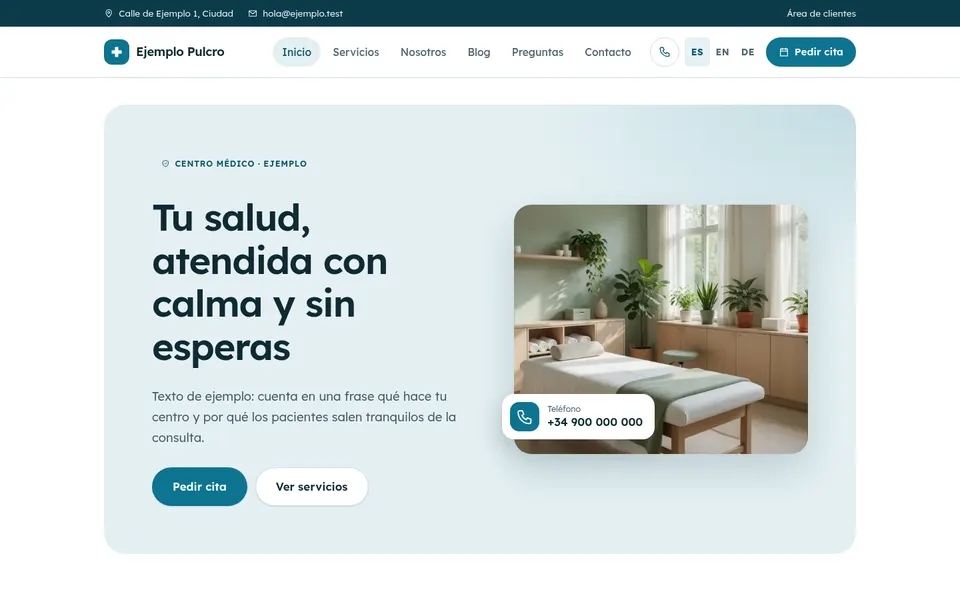
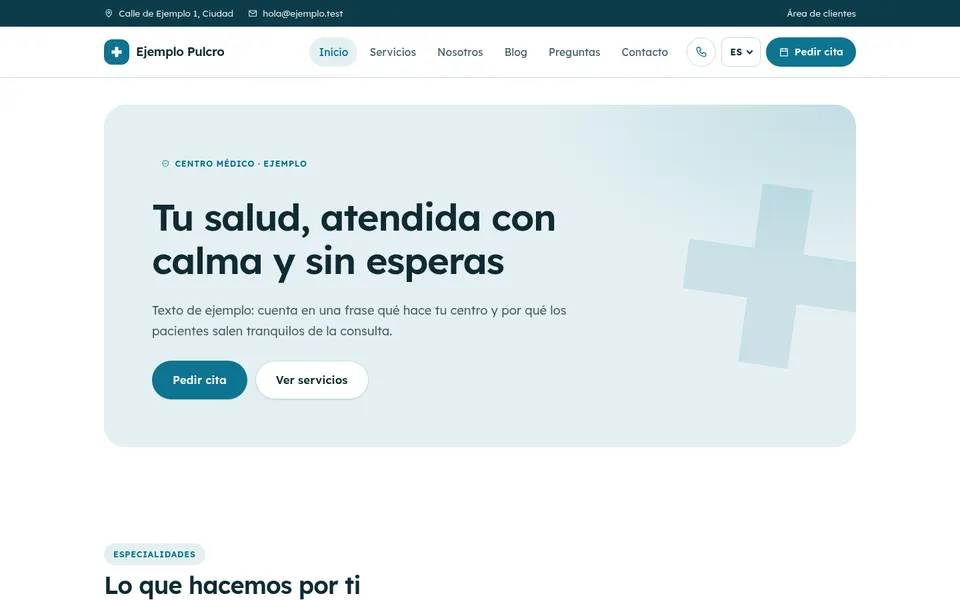
Temas nuevos: selector de idioma, acento claro y capturas de galería
- Con 4 idiomas o más el selector es un desplegable compacto (details, sin
  dependencias): con los 7 idiomas y el menú alemán, la marca y el menú ya no
  se pisan en 360, 390, 820, 1024, 1280 y 1440 px. Se cierra al pulsar fuera
  o con Escape (el foco vuelve a su botón).
- Acento como texto con contraste AA aunque el cliente elija un color muy
  claro (amarillo) o muy oscuro: luminosidad limitada en claro y en oscuro.
  Medido con #f5b400 y #1e3a8a en botones, enlaces, antetítulos, menú, cifras
  y pie.
- Rotundo: cabecera móvil con el desplegable en la misma fila. Orbital: ya no
  esconde el nombre de la marca con muchos idiomas. Todos: el botón de menú no
  se encoge.
- Capturas de galería del panel con la portada sin foto (la que ve quien aún
  no tiene imágenes), sin fotos de otros temas.

Changed region(s): [[0.0938, 0.3, 0.9062, 1.0], [0.2812, 0.06, 0.7812, 0.12], [0.875, 0.42, 0.9062, 0.51]]

diff --git a/themes/rotundo/assets/style.css b/themes/rotundo/assets/style.css
@@ -112,6 +112,10 @@ h3 { font-size: 1.35rem; font-weight: 700; letter-spacing: -.02em; line-height: 
   .header-cta span { position: absolute; width: 1px; height: 1px; overflow: hidden; clip: rect(0 0 0 0); white-space: nowrap; }
   .nav-toggle { order: 3; }
   .header-actions .lang-switch { order: 4; flex: 0 0 100%; justify-content: flex-start; padding-top: 6px; }
+  .header-actions .lang-switch.lang-many { order: 2; flex: none; padding-top: 0; margin-left: auto; }
+  .header-inner:has(.lang-many) .header-cta { margin-left: 0; }
+  .header-inner:has(.lang-many) .brand { flex: 1 1 0; min-width: 0; gap: 8px; }
+  .header-inner:has(.lang-many) .brand > span:last-child { white-space: normal; }
   .site-nav { background: var(--bg); border-bottom: 3px solid var(--line); box-shadow: 0 6px 0 var(--sh); padding: 12px 16px 18px; }
   .site-nav ul { gap: 6px; }
   .site-nav a { padding: 10px 14px; font-size: 1.1rem; border-color: var(--line); background: var(--card); }
@@ -301,3 +305,20 @@ a.media-card:hover, .post-card:hover { transform: translate(-2px, -2px); box-sha
   .faq details, .faq details:hover, .site-nav a, .nav-toggle:active, .whatsapp-float, .whatsapp-float:hover { transform: none; transition: none; }
 }
 @media print { .ribbon-wrap, .hero-art, .whatsapp-float, .utilbar { display: none !important; } .hero-rotundo { background: none; } .card, .feature, .stat, .step, .testimonial, .hours-card, .price-item { box-shadow: none; } .site-footer { background: none; color: #000; } }
+
+/* Selector con 4 idiomas o más: desplegable compacto (no pisa la marca ni el menú en ningún ancho) */
+.lang-menu { position: relative; }
+.lang-menu summary { list-style: none; display: inline-flex; align-items: center; justify-content: center; gap: 7px; min-height: 44px; min-width: 44px; padding: 4px 12px; cursor: pointer; font-size: .85rem; font-weight: 700; letter-spacing: .05em; color: var(--text); border: 1px solid var(--border); border-radius: 10px; background: transparent; }
+.lang-menu summary::-webkit-details-marker { display: none; }
+.lang-menu summary:hover { background: var(--bg-soft); }
+.lang-caret { width: 7px; height: 7px; border-right: 2px solid currentColor; border-bottom: 2px solid currentColor; transform: translateY(-2px) rotate(45deg); }
+.lang-menu[open] .lang-caret { transform: translateY(2px) rotate(-135deg); }
+.lang-list { position: absolute; right: 0; top: calc(100% + 6px); z-index: 70; display: grid; grid-template-columns: repeat(2, minmax(52px, 1fr)); gap: 2px; padding: 6px; background: var(--card, var(--bg)); border: 1px solid var(--border); border-radius: 10px; box-shadow: 0 14px 34px rgba(0,0,0,.18); }
+.lang-list a { justify-content: center; }
+.nav-toggle, .lang-menu summary { flex: none; }
+
+/* Acento como texto con contraste AA aunque el cliente elija un color muy claro (amarillo) o muy oscuro en modo oscuro */
+@supports (color: oklch(from red l c h)) {
+  :root { --accent-text: oklch(from var(--accent) min(l, .5) c h); }
+  @media (prefers-color-scheme: dark) { :root { --accent-text: oklch(from var(--accent) max(l, .8) c h); } }
+}

diff --git a/themes/orbital/assets/style.css b/themes/orbital/assets/style.css
@@ -105,7 +105,6 @@ code, kbd, samp { font-family: var(--mono); }
 }
 @media (max-width: 560px) {
   .brand-name { font-size: .95rem; line-height: 1.2; }
-  .header-inner:has(.lang-switch a:nth-child(5)) .brand-name { position: absolute; width: 1px; height: 1px; overflow: hidden; clip: rect(0 0 0 0); white-space: nowrap; }
 }
 @media (max-width: 440px) { .lang-switch a { min-width: 28px; padding: 4px 1px; font-size: .68rem; } .site-header { padding: 0 8px; } .header-inner { padding-left: 12px; } }
 @media (max-width: 400px) { .lang-switch a { min-width: 26px; } .header-actions { gap: 4px; } }
@@ -261,3 +260,20 @@ a.feature:hover { transform: none; border-color: var(--border); }
 /* Campos del formulario: borde con contraste 3:1 frente al fondo (WCAG 1.4.11), en claro y oscuro */
 .form input, .form textarea, .form select { border-color: color-mix(in srgb, var(--muted) 82%, var(--card)); }
 .form input:focus, .form textarea:focus, .form select:focus { border-color: var(--accent-text); }
+
+/* Selector con 4 idiomas o más: desplegable compacto (no pisa la marca ni el menú en ningún ancho) */
+.lang-menu { position: relative; }
+.lang-menu summary { list-style: none; display: inline-flex; align-items: center; justify-content: center; gap: 7px; min-height: 44px; min-width: 44px; padding: 4px 12px; cursor: pointer; font-size: .85rem; font-weight: 700; letter-spacing: .05em; color: var(--text); border: 1px solid var(--border); border-radius: 10px; background: transparent; }
+.lang-menu summary::-webkit-details-marker { display: none; }
+.lang-menu summary:hover { background: var(--bg-soft); }
+.lang-caret { width: 7px; height: 7px; border-right: 2px solid currentColor; border-bottom: 2px solid currentColor; transform: translateY(-2px) rotate(45deg); }
+.lang-menu[open] .lang-caret { transform: translateY(2px) rotate(-135deg); }
+.lang-list { position: absolute; right: 0; top: calc(100% + 6px); z-index: 70; display: grid; grid-template-columns: repeat(2, minmax(52px, 1fr)); gap: 2px; padding: 6px; background: var(--card, var(--bg)); border: 1px solid var(--border); border-radius: 10px; box-shadow: 0 14px 34px rgba(0,0,0,.18); }
+.lang-list a { justify-content: center; }
+.nav-toggle, .lang-menu summary { flex: none; }
+
+/* Acento como texto con contraste AA aunque el cliente elija un color muy claro (amarillo) o muy oscuro en modo oscuro */
+@supports (color: oklch(from red l c h)) {
+  :root { --accent-text: oklch(from var(--accent) min(l, .5) c h); }
+  @media (prefers-color-scheme: dark) { :root { --accent-text: oklch(from var(--accent) max(l, .8) c h); } }
+}

diff --git a/themes/trayecto/assets/style.css b/themes/trayecto/assets/style.css
@@ -322,3 +322,24 @@ a.feature:hover { border-color: color-mix(in srgb, var(--accent) 50%, var(--bord
   .route-line { animation: none; }
 }
 @media print { .topbar, .hero-route, .hero-art, .whatsapp-float { display: none !important; } .hero-trayecto { clip-path: none; background: none; } .hero-panel { clip-path: none; background: none; color: #000; margin: 0; } .hero-trayecto h1, .hero-trayecto .lead { color: #000; } .site-footer, .cta { background: none; color: #000; clip-path: none; } .cta h2, .footer-grid strong { color: #000; } }
+
+/* Selector con 4 idiomas o más: desplegable compacto (no pisa la marca ni el menú en ningún ancho) */
+.lang-menu { position: relative; }
+.lang-menu summary { list-style: none; display: inline-flex; align-items: center; justify-content: center; gap: 7px; min-height: 44px; min-width: 44px; padding: 4px 12px; cursor: pointer; font-size: .85rem; font-weight: 700; letter-spacing: .05em; color: var(--text); border: 1px solid var(--border); border-radius: 10px; background: transparent; }
+.lang-menu summary::-webkit-details-marker { display: none; }
+.lang-menu summary:hover { background: var(--bg-soft); }
+.lang-caret { width: 7px; height: 7px; border-right: 2px solid currentColor; border-bottom: 2px solid currentColor; transform: translateY(-2px) rotate(45deg); }
+.lang-menu[open] .lang-caret { transform: translateY(2px) rotate(-135deg); }
+.lang-list { position: absolute; right: 0; top: calc(100% + 6px); z-index: 70; display: grid; grid-template-columns: repeat(2, minmax(52px, 1fr)); gap: 2px; padding: 6px; background: var(--card, var(--bg)); border: 1px solid var(--border); border-radius: 10px; box-shadow: 0 14px 34px rgba(0,0,0,.18); }
+.lang-list a { justify-content: center; }
+.nav-toggle, .lang-menu summary { flex: none; }
+
+/* Acento como texto con contraste AA aunque el cliente elija un color muy claro (amarillo) o muy oscuro en modo oscuro */
+@supports (color: oklch(from red l c h)) {
+  :root { --accent-text: oklch(from var(--accent) min(l, .5) c h); }
+  @media (prefers-color-scheme: dark) { :root { --accent-text: oklch(from var(--accent) max(l, .8) c h); } }
+}
+@supports (color: oklch(from red l c h)) {
+  :root { --accent-on-ink: oklch(from var(--accent) max(l, .8) c h); }
+  .topbar, .hero-trayecto, .cta, .site-footer { --accent-text: oklch(from var(--accent) max(l, .8) c h); }
+}

diff --git a/themes/cota/assets/style.css b/themes/cota/assets/style.css
@@ -296,3 +296,20 @@ a.feature:hover { transform: none; background: var(--bg-soft); }
 @media (forced-colors: active) { .hero-cota .hero-text h1::after, .dim i, .step::before { forced-color-adjust: none; } }
 @media print { .ruler-bar, .whatsapp-float, .hero-plan { display: none !important; } .hero-cota, .block-stats, .site-footer { background: none; color: #000; } .crop::before, .split-media::before { display: none; } }
 @media (max-width: 760px) { .step { padding-bottom: 22px; } }
+
+/* Selector con 4 idiomas o más: desplegable compacto (no pisa la marca ni el menú en ningún ancho) */
+.lang-menu { position: relative; }
+.lang-menu summary { list-style: none; display: inline-flex; align-items: center; justify-content: center; gap: 7px; min-height: 44px; min-width: 44px; padding: 4px 12px; cursor: pointer; font-size: .85rem; font-weight: 700; letter-spacing: .05em; color: var(--text); border: 1px solid var(--border); border-radius: 10px; background: transparent; }
+.lang-menu summary::-webkit-details-marker { display: none; }
+.lang-menu summary:hover { background: var(--bg-soft); }
+.lang-caret { width: 7px; height: 7px; border-right: 2px solid currentColor; border-bottom: 2px solid currentColor; transform: translateY(-2px) rotate(45deg); }
+.lang-menu[open] .lang-caret { transform: translateY(2px) rotate(-135deg); }
+.lang-list { position: absolute; right: 0; top: calc(100% + 6px); z-index: 70; display: grid; grid-template-columns: repeat(2, minmax(52px, 1fr)); gap: 2px; padding: 6px; background: var(--card, var(--bg)); border: 1px solid var(--border); border-radius: 10px; box-shadow: 0 14px 34px rgba(0,0,0,.18); }
+.lang-list a { justify-content: center; }
+.nav-toggle, .lang-menu summary { flex: none; }
+
+/* Acento como texto con contraste AA aunque el cliente elija un color muy claro (amarillo) o muy oscuro en modo oscuro */
+@supports (color: oklch(from red l c h)) {
+  :root { --accent-text: oklch(from var(--accent) min(l, .5) c h); }
+  @media (prefers-color-scheme: dark) { :root { --accent-text: oklch(from var(--accent) max(l, .8) c h); } }
+}

diff --git a/themes/horizonte/assets/style.css b/themes/horizonte/assets/style.css
@@ -256,3 +256,20 @@ a.feature:hover { border-color: color-mix(in srgb, var(--accent) 45%, var(--bord
 /* Campos del formulario: borde con contraste 3:1 frente al fondo (WCAG 1.4.11), en claro y oscuro */
 .form input, .form textarea, .form select { border-color: color-mix(in srgb, var(--muted) 82%, var(--card)); }
 .form input:focus, .form textarea:focus, .form select:focus { border-color: var(--accent-text); }
+
+/* Selector con 4 idiomas o más: desplegable compacto (no pisa la marca ni el menú en ningún ancho) */
+.lang-menu { position: relative; }
+.lang-menu summary { list-style: none; display: inline-flex; align-items: center; justify-content: center; gap: 7px; min-height: 44px; min-width: 44px; padding: 4px 12px; cursor: pointer; font-size: .85rem; font-weight: 700; letter-spacing: .05em; color: var(--text); border: 1px solid var(--border); border-radius: 10px; background: transparent; }
+.lang-menu summary::-webkit-details-marker { display: none; }
+.lang-menu summary:hover { background: var(--bg-soft); }
+.lang-caret { width: 7px; height: 7px; border-right: 2px solid currentColor; border-bottom: 2px solid currentColor; transform: translateY(-2px) rotate(45deg); }
+.lang-menu[open] .lang-caret { transform: translateY(2px) rotate(-135deg); }
+.lang-list { position: absolute; right: 0; top: calc(100% + 6px); z-index: 70; display: grid; grid-template-columns: repeat(2, minmax(52px, 1fr)); gap: 2px; padding: 6px; background: var(--card, var(--bg)); border: 1px solid var(--border); border-radius: 10px; box-shadow: 0 14px 34px rgba(0,0,0,.18); }
+.lang-list a { justify-content: center; }
+.nav-toggle, .lang-menu summary { flex: none; }
+
+/* Acento como texto con contraste AA aunque el cliente elija un color muy claro (amarillo) o muy oscuro en modo oscuro */
+@supports (color: oklch(from red l c h)) {
+  :root { --accent-text: oklch(from var(--accent) min(l, .5) c h); }
+  @media (prefers-color-scheme: dark) { :root { --accent-text: oklch(from var(--accent) max(l, .8) c h); } }
+}

diff --git a/themes/pulcro/assets/style.css b/themes/pulcro/assets/style.css
@@ -228,3 +228,20 @@ a.feature:hover { border-color: color-mix(in srgb, var(--accent) 45%, var(--bord
 /* Campos del formulario: borde con contraste 3:1 frente al fondo (WCAG 1.4.11), en claro y oscuro */
 .form input, .form textarea, .form select { border-color: color-mix(in srgb, var(--muted) 82%, var(--card)); }
 .form input:focus, .form textarea:focus, .form select:focus { border-color: var(--accent-text); }
+
+/* Selector con 4 idiomas o más: desplegable compacto (no pisa la marca ni el menú en ningún ancho) */
+.lang-menu { position: relative; }
+.lang-menu summary { list-style: none; display: inline-flex; align-items: center; justify-content: center; gap: 7px; min-height: 44px; min-width: 44px; padding: 4px 12px; cursor: pointer; font-size: .85rem; font-weight: 700; letter-spacing: .05em; color: var(--text); border: 1px solid var(--border); border-radius: 10px; background: transparent; }
+.lang-menu summary::-webkit-details-marker { display: none; }
+.lang-menu summary:hover { background: var(--bg-soft); }
+.lang-caret { width: 7px; height: 7px; border-right: 2px solid currentColor; border-bottom: 2px solid currentColor; transform: translateY(-2px) rotate(45deg); }
+.lang-menu[open] .lang-caret { transform: translateY(2px) rotate(-135deg); }
+.lang-list { position: absolute; right: 0; top: calc(100% + 6px); z-index: 70; display: grid; grid-template-columns: repeat(2, minmax(52px, 1fr)); gap: 2px; padding: 6px; background: var(--card, var(--bg)); border: 1px solid var(--border); border-radius: 10px; box-shadow: 0 14px 34px rgba(0,0,0,.18); }
+.lang-list a { justify-content: center; }
+.nav-toggle, .lang-menu summary { flex: none; }
+
+/* Acento como texto con contraste AA aunque el cliente elija un color muy claro (amarillo) o muy oscuro en modo oscuro */
+@supports (color: oklch(from red l c h)) {
+  :root { --accent-text: oklch(from var(--accent) min(l, .5) c h); }
+  @media (prefers-color-scheme: dark) { :root { --accent-text: oklch(from var(--accent) max(l, .8) c h); } }
+}

diff --git a/themes/lienzo/assets/style.css b/themes/lienzo/assets/style.css
@@ -328,3 +328,20 @@ a.media-card:hover .card-body h3 { text-decoration: underline; text-decoration-c
 }
 @media (forced-colors: active) { .step-num { color: CanvasText; -webkit-text-stroke: 0; } }
 @media print { .utility, .whatsapp-float { display: none !important; } .site-footer { --text: #000; background: none; color: #000; } .footer-name { color: #000; } .step-num { color: #000; -webkit-text-stroke: 0; } }
+
+/* Selector con 4 idiomas o más: desplegable compacto (no pisa la marca ni el menú en ningún ancho) */
+.lang-menu { position: relative; }
+.lang-menu summary { list-style: none; display: inline-flex; align-items: center; justify-content: center; gap: 7px; min-height: 44px; min-width: 44px; padding: 4px 12px; cursor: pointer; font-size: .85rem; font-weight: 700; letter-spacing: .05em; color: var(--text); border: 1px solid var(--border); border-radius: 10px; background: transparent; }
+.lang-menu summary::-webkit-details-marker { display: none; }
+.lang-menu summary:hover { background: var(--bg-soft); }
+.lang-caret { width: 7px; height: 7px; border-right: 2px solid currentColor; border-bottom: 2px solid currentColor; transform: translateY(-2px) rotate(45deg); }
+.lang-menu[open] .lang-caret { transform: translateY(2px) rotate(-135deg); }
+.lang-list { position: absolute; right: 0; top: calc(100% + 6px); z-index: 70; display: grid; grid-template-columns: repeat(2, minmax(52px, 1fr)); gap: 2px; padding: 6px; background: var(--card, var(--bg)); border: 1px solid var(--border); border-radius: 10px; box-shadow: 0 14px 34px rgba(0,0,0,.18); }
+.lang-list a { justify-content: center; }
+.nav-toggle, .lang-menu summary { flex: none; }
+
+/* Acento como texto con contraste AA aunque el cliente elija un color muy claro (amarillo) o muy oscuro en modo oscuro */
+@supports (color: oklch(from red l c h)) {
+  :root { --accent-text: oklch(from var(--accent) min(l, .5) c h); }
+  @media (prefers-color-scheme: dark) { :root { --accent-text: oklch(from var(--accent) max(l, .8) c h); } }
+}

diff --git a/themes/sutil/assets/style.css b/themes/sutil/assets/style.css
@@ -280,3 +280,20 @@ a.feature:hover { border-color: var(--gold); }
 /* Campos del formulario: borde con contraste 3:1 frente al fondo (WCAG 1.4.11), en claro y oscuro */
 .form input, .form textarea, .form select { border-color: color-mix(in srgb, var(--muted) 82%, var(--card)); }
 .form input:focus, .form textarea:focus, .form select:focus { border-color: var(--accent-text); }
+
+/* Selector con 4 idiomas o más: desplegable compacto (no pisa la marca ni el menú en ningún ancho) */
+.lang-menu { position: relative; }
+.lang-menu summary { list-style: none; display: inline-flex; align-items: center; justify-content: center; gap: 7px; min-height: 44px; min-width: 44px; padding: 4px 12px; cursor: pointer; font-size: .85rem; font-weight: 700; letter-spacing: .05em; color: var(--text); border: 1px solid var(--border); border-radius: 10px; background: transparent; }
+.lang-menu summary::-webkit-details-marker { display: none; }
+.lang-menu summary:hover { background: var(--bg-soft); }
+.lang-caret { width: 7px; height: 7px; border-right: 2px solid currentColor; border-bottom: 2px solid currentColor; transform: translateY(-2px) rotate(45deg); }
+.lang-menu[open] .lang-caret { transform: translateY(2px) rotate(-135deg); }
+.lang-list { position: absolute; right: 0; top: calc(100% + 6px); z-index: 70; display: grid; grid-template-columns: repeat(2, minmax(52px, 1fr)); gap: 2px; padding: 6px; background: var(--card, var(--bg)); border: 1px solid var(--border); border-radius: 10px; box-shadow: 0 14px 34px rgba(0,0,0,.18); }
+.lang-list a { justify-content: center; }
+.nav-toggle, .lang-menu summary { flex: none; }
+
+/* Acento como texto con contraste AA aunque el cliente elija un color muy claro (amarillo) o muy oscuro en modo oscuro */
+@supports (color: oklch(from red l c h)) {
+  :root { --accent-text: oklch(from var(--accent) min(l, .5) c h); }
+  @media (prefers-color-scheme: dark) { :root { --accent-text: oklch(from var(--accent) max(l, .8) c h); } }
+}

diff --git a/themes/cuaderno/assets/style.css b/themes/cuaderno/assets/style.css
@@ -294,3 +294,20 @@ h3 { font-size: 1.2rem; }
 /* Menú desplegado: el rotulador cubre toda la fila */
 @media (max-width: 1180px) { .site-nav a:hover, .site-nav a.active { background: var(--marker); } }
 @media (max-width: 1180px) and (prefers-color-scheme: dark) { .site-nav a:hover, .site-nav a.active { background: var(--marker); } }
+
+/* Selector con 4 idiomas o más: desplegable compacto (no pisa la marca ni el menú en ningún ancho) */
+.lang-menu { position: relative; }
+.lang-menu summary { list-style: none; display: inline-flex; align-items: center; justify-content: center; gap: 7px; min-height: 44px; min-width: 44px; padding: 4px 12px; cursor: pointer; font-size: .85rem; font-weight: 700; letter-spacing: .05em; color: var(--text); border: 1px solid var(--border); border-radius: 10px; background: transparent; }
+.lang-menu summary::-webkit-details-marker { display: none; }
+.lang-menu summary:hover { background: var(--bg-soft); }
+.lang-caret { width: 7px; height: 7px; border-right: 2px solid currentColor; border-bottom: 2px solid currentColor; transform: translateY(-2px) rotate(45deg); }
+.lang-menu[open] .lang-caret { transform: translateY(2px) rotate(-135deg); }
+.lang-list { position: absolute; right: 0; top: calc(100% + 6px); z-index: 70; display: grid; grid-template-columns: repeat(2, minmax(52px, 1fr)); gap: 2px; padding: 6px; background: var(--card, var(--bg)); border: 1px solid var(--border); border-radius: 10px; box-shadow: 0 14px 34px rgba(0,0,0,.18); }
+.lang-list a { justify-content: center; }
+.nav-toggle, .lang-menu summary { flex: none; }
+
+/* Acento como texto con contraste AA aunque el cliente elija un color muy claro (amarillo) o muy oscuro en modo oscuro */
+@supports (color: oklch(from red l c h)) {
+  :root { --accent-text: oklch(from var(--accent) min(l, .5) c h); }
+  @media (prefers-color-scheme: dark) { :root { --accent-text: oklch(from var(--accent) max(l, .8) c h); } }
+}

diff --git a/themes/sobrio/assets/style.css b/themes/sobrio/assets/style.css
@@ -364,3 +364,20 @@ a.media-card:hover { transform: none; }
   .cta h2, .cta p, .footer-name, .footer-grid a, .footer-grid strong, .footer-bottom { color: #000; }
   .hero-text h1 { color: #000; }
 }
+
+/* Selector con 4 idiomas o más: desplegable compacto (no pisa la marca ni el menú en ningún ancho) */
+.lang-menu { position: relative; }
+.lang-menu summary { list-style: none; display: inline-flex; align-items: center; justify-content: center; gap: 7px; min-height: 44px; min-width: 44px; padding: 4px 12px; cursor: pointer; font-size: .85rem; font-weight: 700; letter-spacing: .05em; color: var(--text); border: 1px solid var(--border); border-radius: 10px; background: transparent; }
+.lang-menu summary::-webkit-details-marker { display: none; }
+.lang-menu summary:hover { background: var(--bg-soft); }
+.lang-caret { width: 7px; height: 7px; border-right: 2px solid currentColor; border-bottom: 2px solid currentColor; transform: translateY(-2px) rotate(45deg); }
+.lang-menu[open] .lang-caret { transform: translateY(2px) rotate(-135deg); }
+.lang-list { position: absolute; right: 0; top: calc(100% + 6px); z-index: 70; display: grid; grid-template-columns: repeat(2, minmax(52px, 1fr)); gap: 2px; padding: 6px; background: var(--card, var(--bg)); border: 1px solid var(--border); border-radius: 10px; box-shadow: 0 14px 34px rgba(0,0,0,.18); }
+.lang-list a { justify-content: center; }
+.nav-toggle, .lang-menu summary { flex: none; }
+
+/* Acento como texto con contraste AA aunque el cliente elija un color muy claro (amarillo) o muy oscuro en modo oscuro */
+@supports (color: oklch(from red l c h)) {
+  :root { --accent-text: oklch(from var(--accent) min(l, .5) c h); }
+  @media (prefers-color-scheme: dark) { :root { --accent-text: oklch(from var(--accent) max(l, .8) c h); } }
+}

diff --git a/themes/cota/assets/site.js b/themes/cota/assets/site.js
@@ -51,4 +51,13 @@
       b.textContent = '¡Copiado!'; setTimeout(function () { b.textContent = 'Copiar'; }, 1500);
     });
   });
+
+  // Selector de idioma desplegable: se cierra al pulsar fuera o con Escape (el foco vuelve a su botón)
+  document.addEventListener('click', function (ev) {
+    document.querySelectorAll('.lang-menu[open]').forEach(function (d) { if (!d.contains(ev.target)) d.removeAttribute('open'); });
+  });
+  document.addEventListener('keydown', function (ev) {
+    if (ev.key !== 'Escape') return;
+    document.querySelectorAll('.lang-menu[open]').forEach(function (d) { d.removeAttribute('open'); var s = d.querySelector('summary'); if (s) s.focus(); });
+  });
 })();

diff --git a/themes/cuaderno/assets/site.js b/themes/cuaderno/assets/site.js
@@ -51,4 +51,13 @@
       b.textContent = '¡Copiado!'; setTimeout(function () { b.textContent = 'Copiar'; }, 1500);
     });
   });
+
+  // Selector de idioma desplegable: se cierra al pulsar fuera o con Escape (el foco vuelve a su botón)
+  document.addEventListener('click', function (ev) {
+    document.querySelectorAll('.lang-menu[open]').forEach(function (d) { if (!d.contains(ev.target)) d.removeAttribute('open'); });
+  });
+  document.addEventListener('keydown', function (ev) {
+    if (ev.key !== 'Escape') return;
+    document.querySelectorAll('.lang-menu[open]').forEach(function (d) { d.removeAttribute('open'); var s = d.querySelector('summary'); if (s) s.focus(); });
+  });
 })();
